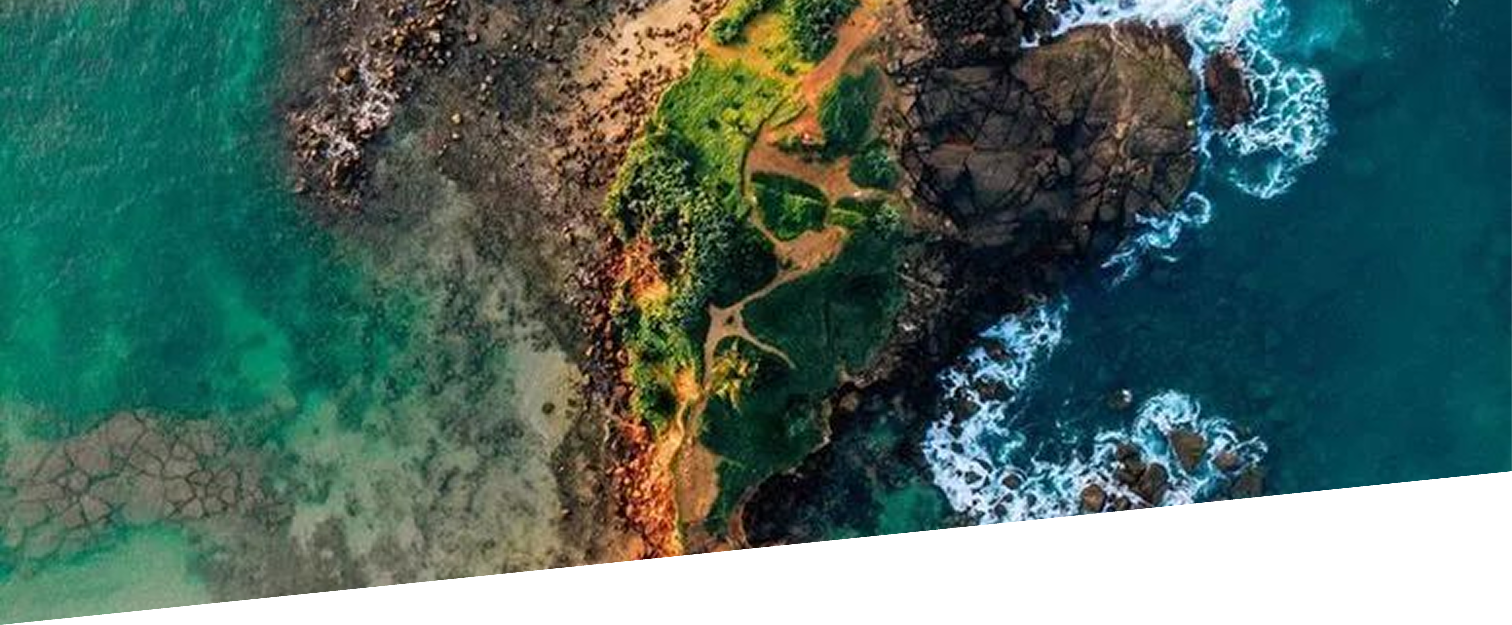
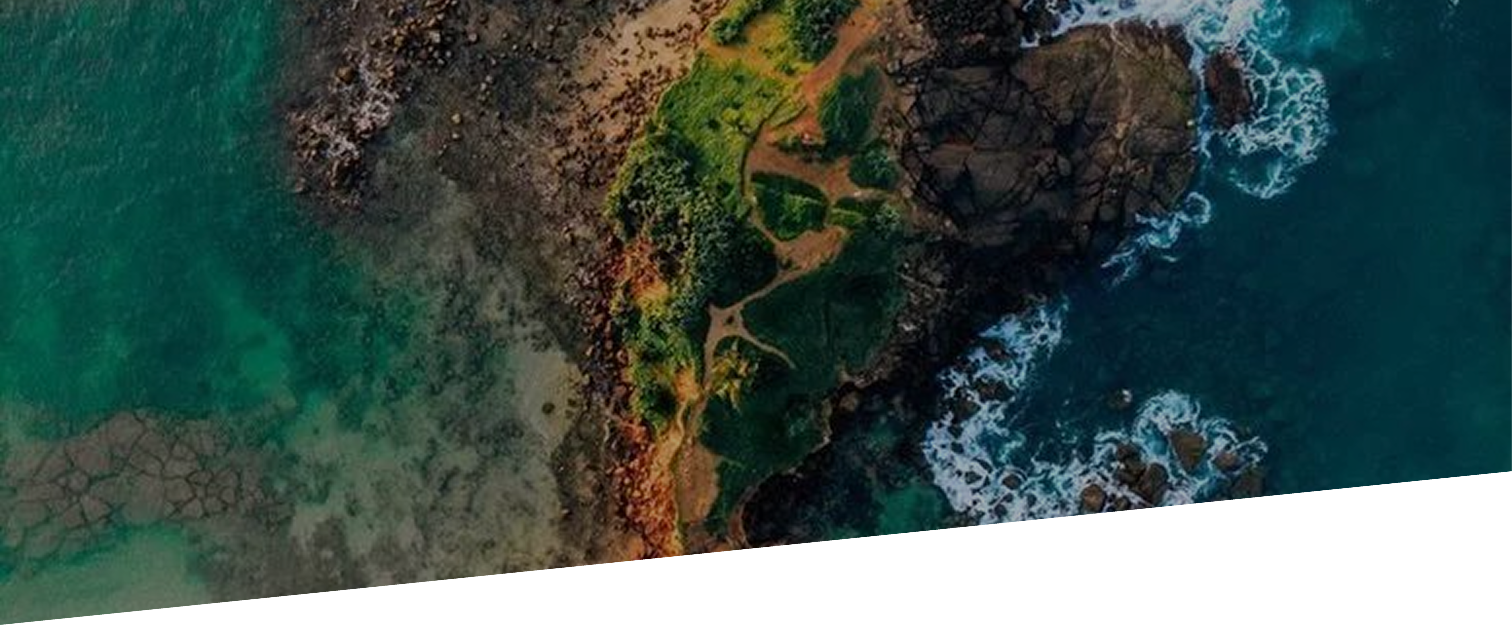
UI Changes

diff --git a/resources/js/Pages/Web/components/multiModel/Hero.jsx b/resources/js/Pages/Web/components/multiModel/Hero.jsx
@@ -89,9 +89,15 @@ const Hero = () => {
         <div className="flex flex-col justify-center items-center px-4 sm:px-6 lg:px-0">
             <div className="max-w-[1400px] w-full py-10 px-0 sm:px-4 lg:px-10">
                 <div
-                    className="relative overflow-hidden w-full min-h-[550px] sm:min-h-[650px] lg:min-h-[789px] rounded-[25px] bg-cover bg-center flex flex-col justify-between items-center px-5 sm:px-8 md:px-12 lg:px-16 xl:px-20 py-10 sm:py-14 lg:py-[90px]"
-                    style={{ backgroundImage: `url(${HERO_BACKGROUNDS[activeBgIndex]})` }}
+                    className="relative overflow-hidden w-full min-h-[550px] sm:min-h-[650px] lg:min-h-[789px] rounded-[25px] flex flex-col justify-between items-center px-5 sm:px-8 md:px-12 lg:px-16 xl:px-20 py-10 sm:py-14 lg:py-[90px]"
                 >
+                    {HERO_BACKGROUNDS.map((bgImage, idx) => (
+                        <div
+                            key={idx}
+                            className={`absolute inset-0 bg-cover bg-center transition-opacity duration-1000 ease-in-out rounded-[25px] ${idx === activeBgIndex ? "opacity-100" : "opacity-0"}`}
+                            style={{ backgroundImage: `url(${bgImage})` }}
+                        />
+                    ))}
                     <div className="pointer-events-none absolute inset-0 h-full w-full bg-black/50 rounded-[25px] z-10" />
 
                     <div className="flex flex-col gap-8 lg:flex-row lg:justify-between lg:items-end w-full relative z-20">
